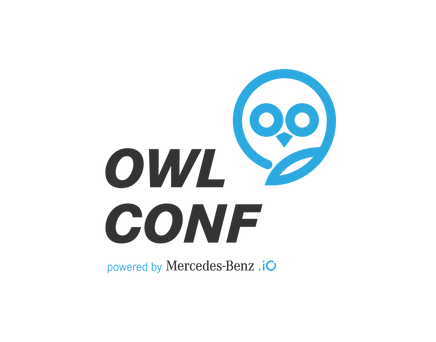
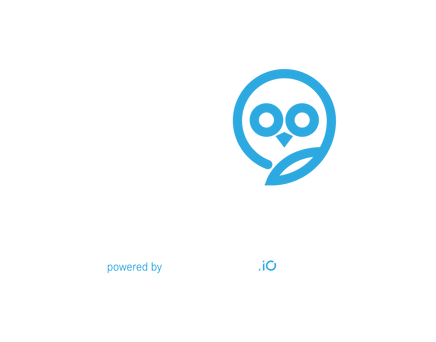
aded owl

Changed region(s): [[0.2385, 0.5848, 0.6261, 0.731], [0.2385, 0.4094, 0.5367, 0.5556], [0.3578, 0.7602, 0.5963, 0.7895]]

diff --git a/src/components/CardMap.js b/src/components/CardMap.js
@@ -1,20 +1,18 @@
 import React from 'react';
 import {makeStyles} from '@material-ui/core/styles';
-import clsx from 'clsx';
+
 import Card from '@material-ui/core/Card';
 import CardHeader from '@material-ui/core/CardHeader';
 import CardMedia from '@material-ui/core/CardMedia';
 import CardContent from '@material-ui/core/CardContent';
 import Typography from '@material-ui/core/Typography';
-import Link from '@material-ui/core/Link';
+
 import map from '../image/map.png';
 
 const useStyles = makeStyles(theme => ({
   card: {
-    maxWidth: 400,
-    background: 'rgba(175, 192, 208, 0.2)',
-    color: 'white',
-    border: 'none',
+    maxWidth: 700,
+    background: 'rgba(175, 192, 208)',
   },
   media: {
     height: 0,

diff --git a/src/components/Map.js b/src/components/Map.js
@@ -1,6 +1,6 @@
 import React from 'react';
 import './Map.css';
-
+import owl from '../images/owl.png';
 import MapCard from './CardMap';
 
 class Mapowl extends React.Component {
@@ -14,10 +14,9 @@ class Mapowl extends React.Component {
           <div className='card'>
             <MapCard />
           </div>
-
-          {/* <h1>Owl Conference Location</h1>
-          <h3>MB.io Cafe</h3>
-          <img src={map} alt='map'  /> */}
+          <div>
+            <img src={owl} alt='logo' className='owl' />
+          </div>
         </div>
       </React.Fragment>
     );

diff --git a/src/components/Map.css b/src/components/Map.css
@@ -14,13 +14,21 @@
 .map {
   display: flex;
   justify-content: center;
+  padding-right: 80px;
 }
 .card {
+  width: 40vw;
+  float: left;
+  margin-top: 200px;
+  margin-left: 50px;
+  opacity: 0.8;
+}
+.owl {
+  width: 40vw;
   float: right;
-  padding-top: 240px;
-  padding-right: 50px;
+  margin-top: 150px;
+  margin-left: 50px;
 }
 .title {
   justify-content: center;
-  color: green;
 }
